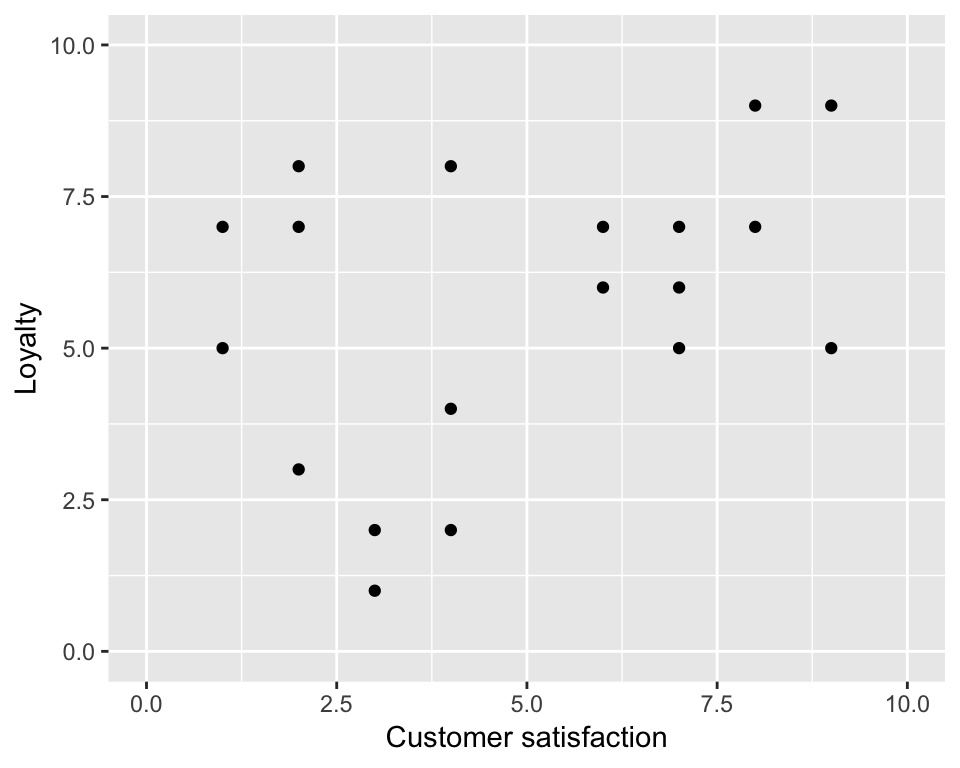
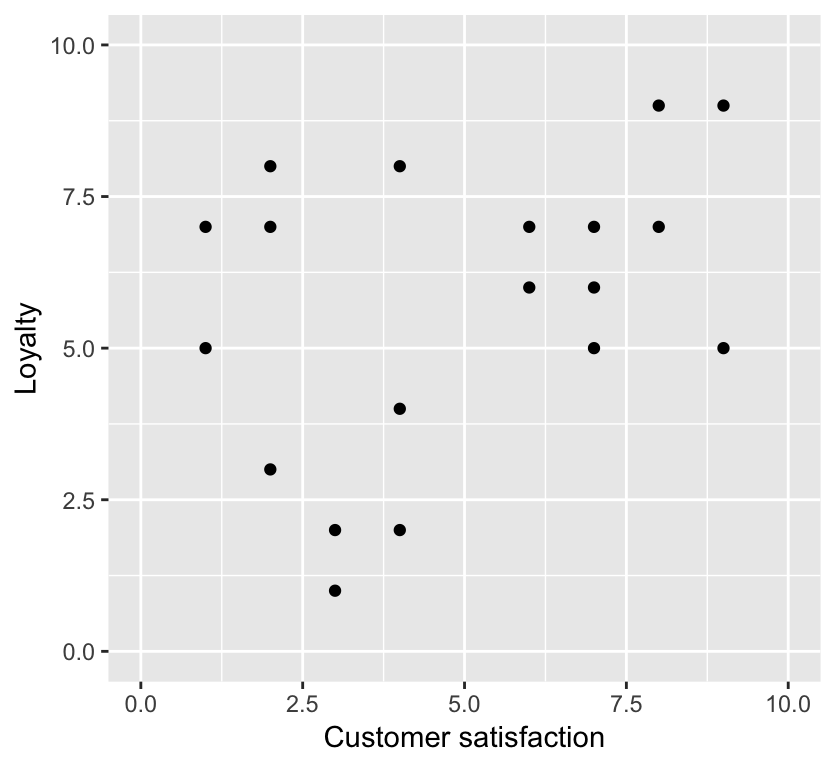
bad example

diff --git a/docs/clustering.html b/docs/clustering.html
@@ -275,7 +275,8 @@
 <div id="a-toy-example" class="section level3">
 <h3><span class="header-section-number">11.3.1</span> A toy example</h3>
 <p>What if we had some customer data, and we wanted to learn more about the types of customers we had so that we could come up with better products and/or promotions to increase our business in a data-driven way. For example, let’s consider this data below, where we have assessed customer loyalty and customer satisfaction:</p>
-<p><img src="bookdown-demo_files/figure-html/Example-1.png" width="480" /> data modified from: <a href="http://www.segmentationstudyguide.com/using-cluster-analysis-for-market-segmentation/" class="uri">http://www.segmentationstudyguide.com/using-cluster-analysis-for-market-segmentation/</a></p>
+<p><img src="bookdown-demo_files/figure-html/Example-1.png" width="417.6" /></p>
+<p>data modified from: <a href="http://www.segmentationstudyguide.com/using-cluster-analysis-for-market-segmentation/" class="uri">http://www.segmentationstudyguide.com/using-cluster-analysis-for-market-segmentation/</a></p>
 <p>From this data we might ask whether there are sub-groups within our customers? For example do we have customers with high loyalty and high satisfaction? What about low satisfaction and high loyalty? One way to answer such a question is to apply K-means clustering analysis. When we do such an analysis on this data set we identify 3 customer subgroups within our data set:</p>
 <p><img src="bookdown-demo_files/figure-html/clusteringExample-1.png" width="480" /></p>
 <p>What are the labels for these groups? We don’t really have any, only cluster numbers are output from the clustering algorithm. In a simple case like this, where we can easily visualize the clusters on a scatter plot, we can give labels to these groups after clustering using the positions of the groups on the plot:</p>
@@ -289,6 +290,17 @@
 </div>
 <div id="k-means-clustering-algorithm" class="section level2">
 <h2><span class="header-section-number">11.4</span> K-means clustering algorithm</h2>
+<p>How does the K-means clustering algorithm work? Let’s use the toy example shown above to illustrate it. First, we start by choosing <span class="math inline">\(K\)</span>, the number of clusters. For this example we will choose 3. How do we choose <span class="math inline">\(K\)</span>? It’s an important question that we will answer later in this chapter. After choosing the number of clusters, we randomly assign a cluster centre (called a centroid) for each of the K clusters. We illustrate that below:</p>
+<p><img src="bookdown-demo_files/figure-html/randomCentroid-1.png" width="417.6" /></p>
+<p>Next, we assign the points to the cluster with the closest centroid based on straight line distance:</p>
+<p><img src="bookdown-demo_files/figure-html/iter1-1.png" width="480" /></p>
+<p>Next, we re-adjust the position of the centroids to be the centre of the clusters:</p>
+<p><img src="bookdown-demo_files/figure-html/adjustCentroid-1.png" width="480" /></p>
+<p>Then we update cluster assignments of the points to the nearest cluster:</p>
+<p><img src="bookdown-demo_files/figure-html/iter2-1.png" width="480" /></p>
+<p>And again we update the centroid position to be the centre of the new clusters:</p>
+<p><img src="bookdown-demo_files/figure-html/adjustCentroid2-1.png" width="480" /></p>
+<p>And then next, we update the points again based on which centroid they are closest too. We do this over and over and over again until we get to a point where the centroids no longer change very much (or don’t change at all) between iterations of the algorithm.</p>
 <p>Watch the video linked to below for an explanation of the K-means clustering algorithm: - <a href="https://www.coursera.org/lecture/machine-learning-data-analysis/what-is-a-k-means-cluster-analysis-p94tY" class="uri">https://www.coursera.org/lecture/machine-learning-data-analysis/what-is-a-k-means-cluster-analysis-p94tY</a></p>
 <p><em>note - when the add pops up to register for this course, you can just click to ignore it (i.e., no need to sign up to watch the entire video)</em></p>
 </div>
